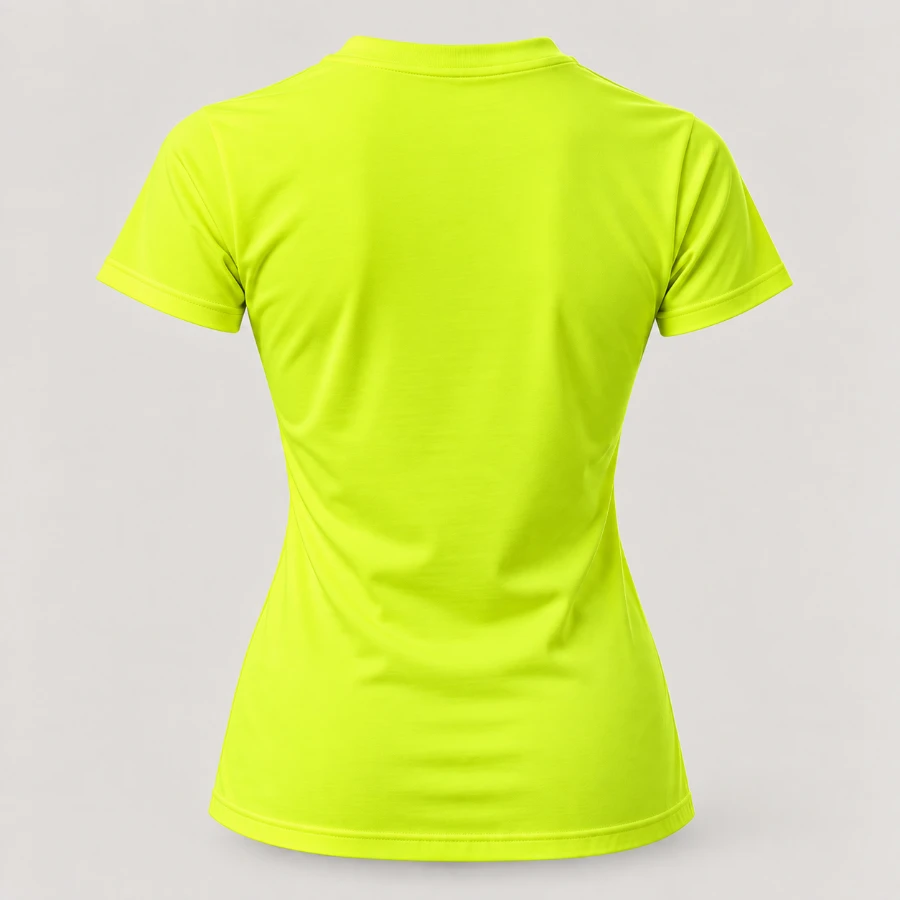
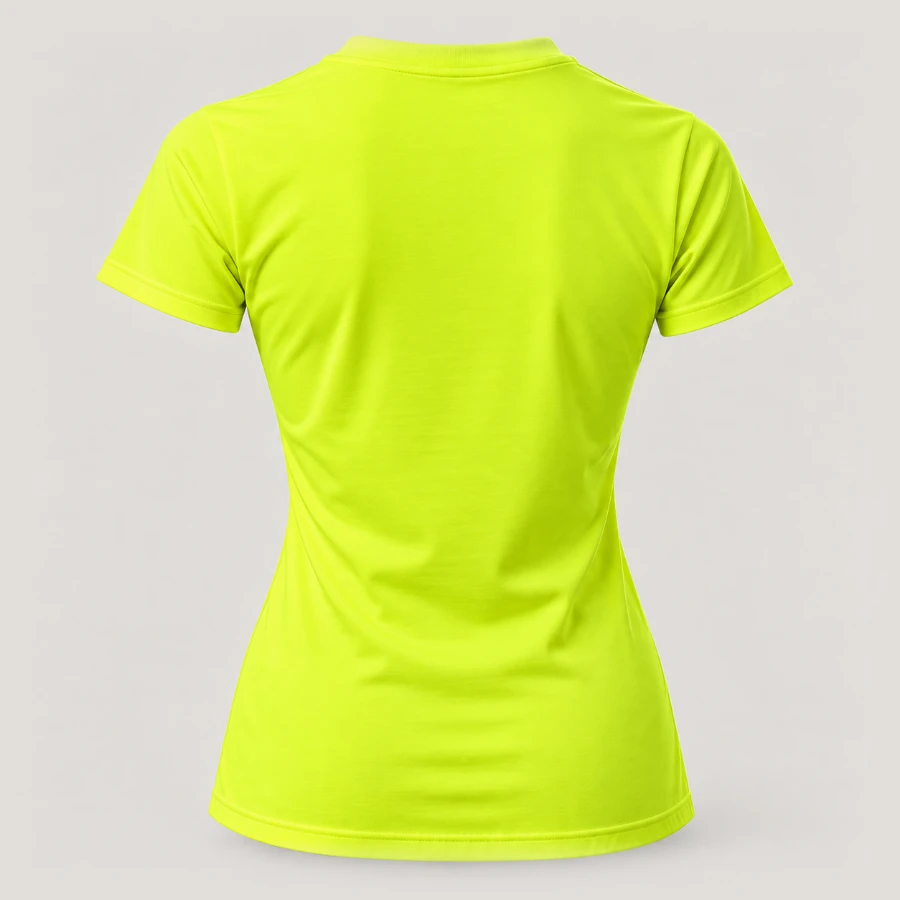
Tee photos: image box matches the photo's grey backdrop
Claude-Session: https://claude.ai/code/session_019xa6L3VDLUS6Spv4RoBBK9

Changed region(s): [[0.3422, 0.9333, 0.6844, 0.9644], [0.3733, 0.0311, 0.6222, 0.0622]]

diff --git a/components/SloganCard.tsx b/components/SloganCard.tsx
@@ -3,7 +3,7 @@
 import Link from 'next/link'
 import { useRef, useState } from 'react'
 import FavouriteButton from './FavouriteButton'
-import ProductArt, { hasPhoto, photoColor } from './ProductArt'
+import ProductArt, { hasPhoto, photoBg, photoColor } from './ProductArt'
 import ShareButton from './ShareButton'
 import {
   collections,
@@ -44,6 +44,8 @@ export default function SloganCard({
   const [index, setIndex] = useState(0)
   const track = useRef<HTMLDivElement>(null)
   const garment = slides[index]
+  const shown = photoColor(garment.art, garment.colors, sloganText(slogan))
+  const boxBg = photoBg(garment.art, shown.hex, sloganText(slogan))
   const title = `“${sloganTemplate(slogan)}”`
 
   function go(i: number) {
@@ -62,6 +64,7 @@ export default function SloganCard({
           setIndex(Math.round(el.scrollLeft / el.clientWidth))
         }}
         className="no-scrollbar flex snap-x snap-mandatory overflow-x-auto bg-white"
+        style={{ background: boxBg }}
       >
         {slides.map((g) => {
           const c = photoColor(g.art, g.colors, sloganText(slogan))
@@ -116,7 +119,7 @@ export default function SloganCard({
           >
             ›
           </button>
-          <div className="flex justify-center gap-1.5 bg-white pb-3">
+          <div className="flex justify-center gap-1.5 bg-white pb-3" style={{ background: boxBg }}>
             {slides.map((g, i) => (
               <button
                 key={g.id}

diff --git a/components/Designer.tsx b/components/Designer.tsx
@@ -3,7 +3,7 @@
 import Link from 'next/link'
 import { useState } from 'react'
 import FavouriteButton from './FavouriteButton'
-import ProductArt, { photoColor } from './ProductArt'
+import ProductArt, { photoBg, photoColor } from './ProductArt'
 import ShareButton from './ShareButton'
 import SizeChart from './SizeChart'
 import { addToCart } from '@/lib/cart'
@@ -96,7 +96,10 @@ export default function Designer({
     <div className="grid gap-4 pb-24 md:grid-cols-2 md:gap-10 md:pb-0">
       {/* Pinned under the header so the preview stays in view while choosing */}
       <div className="sticky top-[58px] z-10 -mx-4 self-start bg-paper px-4 pt-2 pb-2 md:top-20 md:mx-0 md:p-0">
-        <div className="relative rounded-2xl border-2 border-ink bg-white p-2 md:p-8">
+        <div
+          className="relative rounded-2xl border-2 border-ink bg-white p-2 md:p-8"
+          style={{ background: photoBg(garment.art, color.hex, text, fit) }}
+        >
           {/* keyed so switching item or colour fades the new one in instead of jumping */}
           <div key={`${garment.id}/${color.name}/${fit}`} className="animate-swap">
             <ProductArt

diff --git a/components/ItemCard.tsx b/components/ItemCard.tsx
@@ -1,6 +1,6 @@
 import Link from 'next/link'
 import FavouriteButton from './FavouriteButton'
-import ProductArt from './ProductArt'
+import ProductArt, { photoBg } from './ProductArt'
 import ShareButton from './ShareButton'
 import type { Art, Fit, SignPrint } from '@/lib/catalog'
 
@@ -38,7 +38,10 @@ export default function ItemCard({
   return (
     <div className="group relative overflow-hidden rounded-2xl border-2 border-ink bg-white transition hover:-translate-y-1 hover:shadow-[6px_6px_0_var(--color-ink)]">
       <Link href={href} className="block">
-        <div className="relative bg-white p-6">
+        <div
+          className="relative bg-white p-6"
+          style={{ background: photoBg(art, color, text, fit) }}
+        >
           <ProductArt
             art={art}
             slogan={text}

diff --git a/components/ProductArt.tsx b/components/ProductArt.tsx
@@ -377,6 +377,13 @@ function photoFor(art: Art, color: string, slogan: string, fit?: Fit) {
   return found[Math.abs(hash) % found.length]
 }
 
+// Backdrop colour of a photo, so the box around it can match (tees: light grey)
+export const TEE_BG = 'rgb(225 222 218)'
+export function photoBg(art: Art, color: string, slogan: string, fit?: Fit) {
+  const p = photoFor(art, color, slogan, fit)
+  return p && p.src.includes('/t-tee-') ? TEE_BG : undefined
+}
+
 export function hasPhoto(art: Art, color: string, slogan: string, fit?: Fit) {
   return Boolean(photoFor(art, color, slogan, fit))
 }
